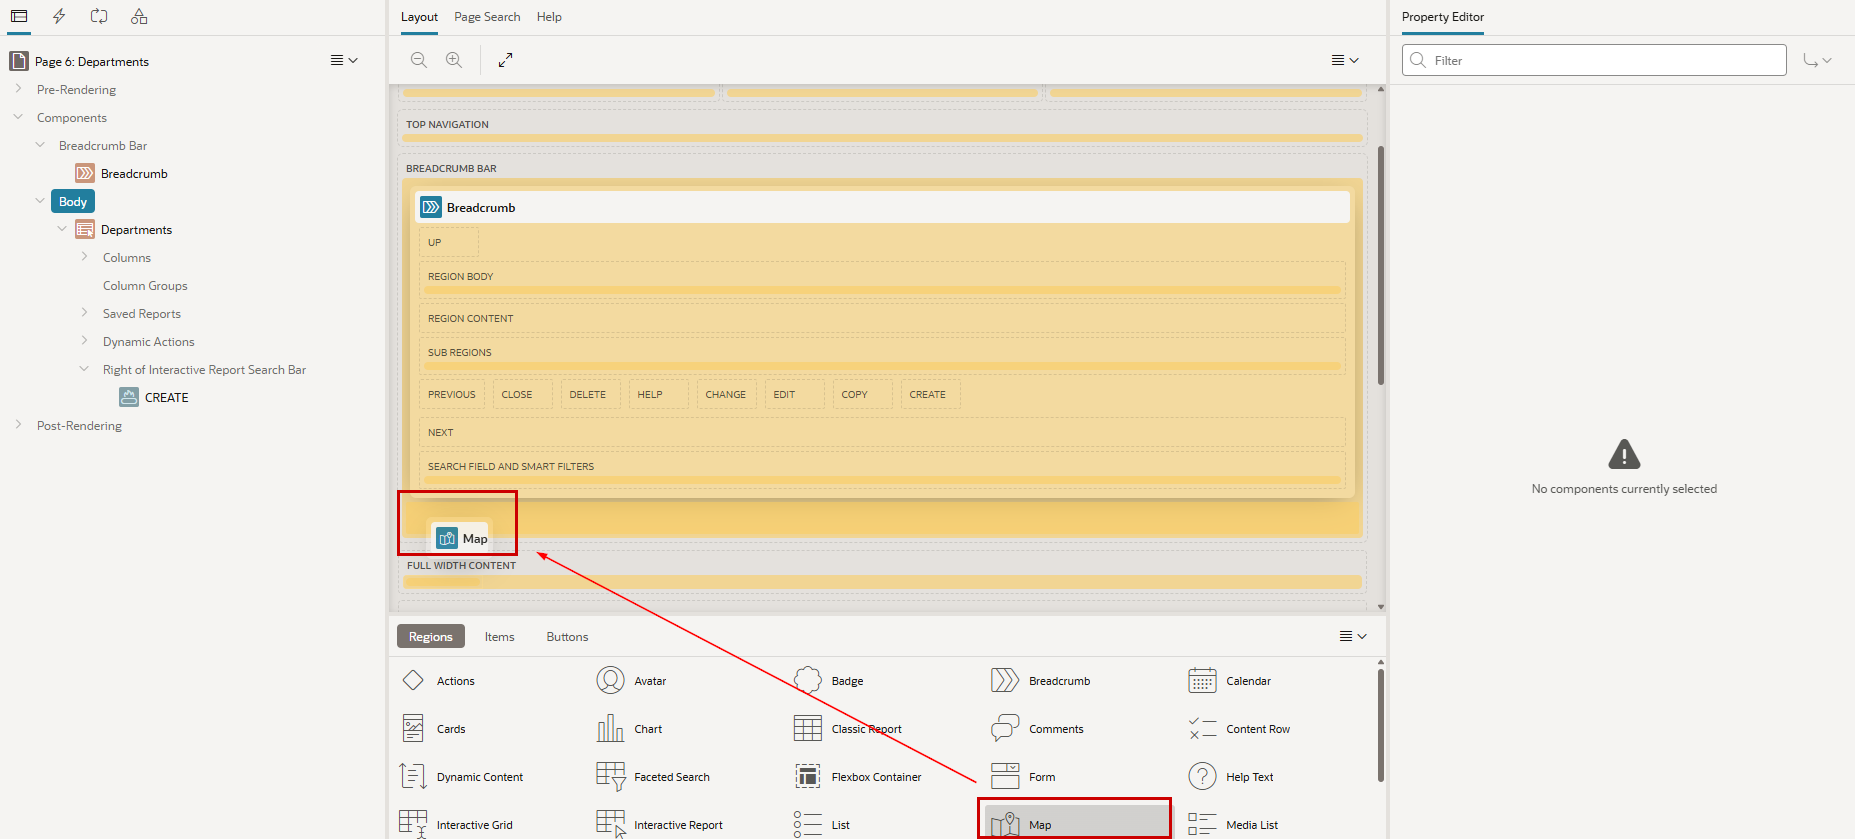
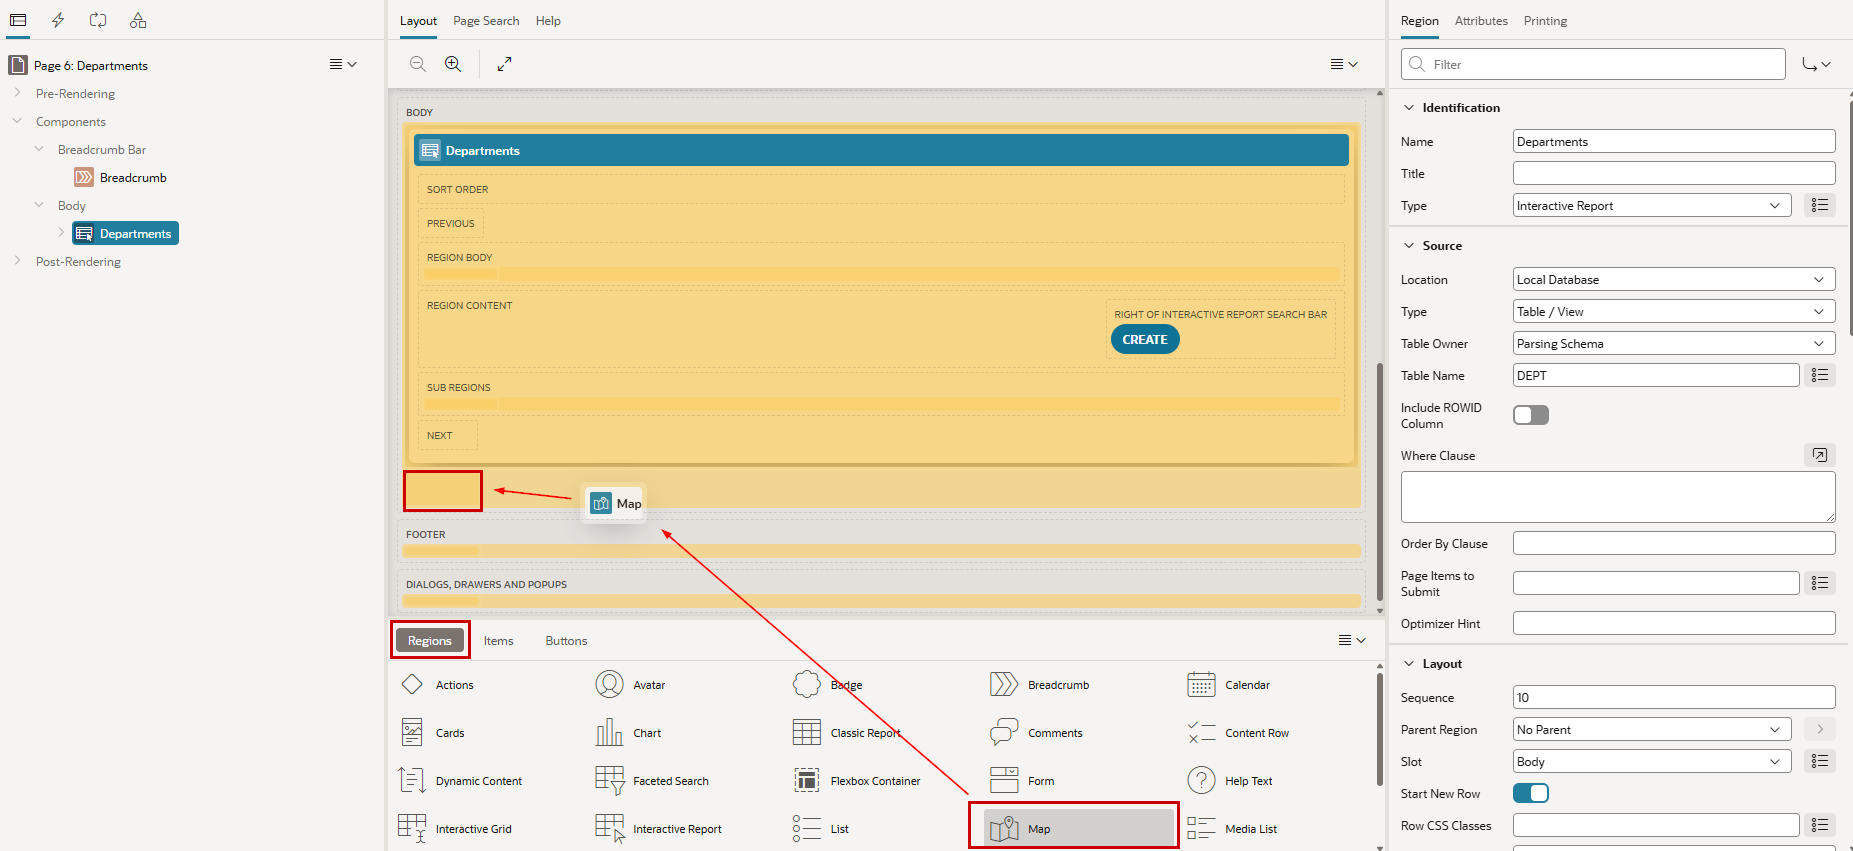
fixes

diff --git a/docs/05-maps.md b/docs/05-maps.md
@@ -104,7 +104,7 @@ Changing an address in the form and coming back to the page with the report and 
 
     For the new Refresh Action (or the other ;)) change the *Region** in the Affected Elements section from Departments to `MyMap`.
 
-    ![duplicate](assets/maps/duplicate.png){ style="display:block;margin:auto;" }
+    ![regionaffected](assets/maps/regionaffected.png){ style="display:block;margin:auto;" }
 
     It might be a good idea to name the actions accordingly. 
 
